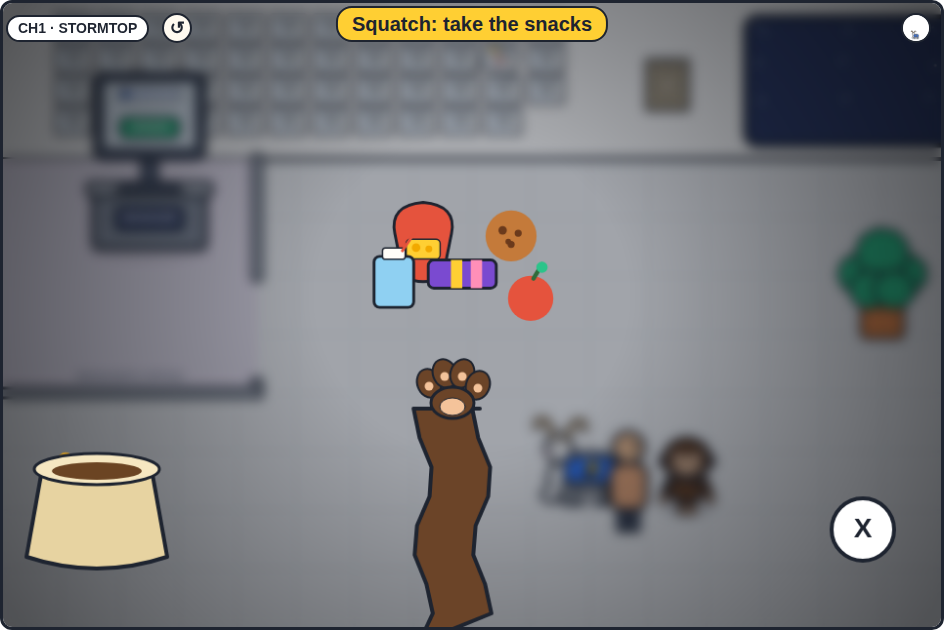
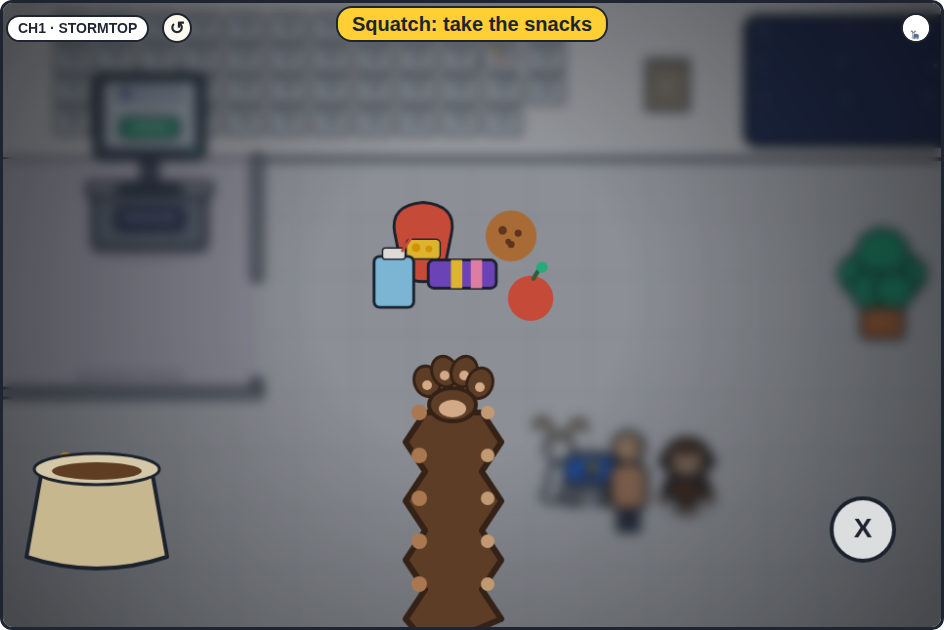
Crouch Squatch under the vent and fur the cut-in arm.
He walks to the grille and stays there, eyes wide, while the pink sheet flies past his head. Every close-up uses that same furry arm. The watched beats are listed as proposals only.

diff --git a/src/game/14-ch1-day2.js b/src/game/14-ch1-day2.js
@@ -296,9 +296,9 @@
           ((n.ch1Roll = 0), (n.ch1ShowBots = !0));
         }),
         cV((dt) => ((n.ch1Roll = Math.min(1, (n.ch1Roll || 0) + dt / 1.2)), n.ch1Roll >= 1)),
-        ch1Step("sq", CH1_VENT.x - 36, CH1_VENT.y, 220),
+        ch1Step("sq", 790, 490, 220),
         N(() => {
-          ((n.sqPose = "ball"), (n.sq.x = 640), (n.sq.y = 500));
+          ((n.sqPose = "stand"), (n.ch1Crouch = !0), (n.ch1Wide = !0));
         }),
         N(() => {
           ((n.ch1SuckT = n.T), D.slurp());
@@ -308,6 +308,8 @@
           ((n.ch1PinkSucked = 1),
             ch1SetPaper("vent"),
             (n.ch1SuckT = 0),
+            (n.ch1Crouch = !1),
+            (n.ch1Wide = !1),
             (n.ch1ShowBots = !1),
             (n.sqPose = "stand"),
             (n.ch1Step = "out"),
@@ -788,28 +790,6 @@
     function drawSlip(x, y, color, w, h) {
       (m(x, y, w || 28, h || 36, 3), r(color, 2));
     }
-    function drawPawArm(paw) {
-      let p = paw || { x: 480, y: 580 },
-        x = p.x,
-        y = p.y;
-      e.save();
-      e.beginPath();
-      e.moveTo(x - 34, 656);
-      for (let i = 1; i <= 8; i++) {
-        let t = i / 8;
-        e.lineTo(x - 30 + Math.sin(i * 1.4) * 10, 656 - (656 - (y + 16)) * t);
-      }
-      e.lineTo(x + 28, y + 16);
-      for (let i = 8; i >= 1; i--) {
-        let t = i / 8;
-        e.lineTo(x + 30 + Math.sin(i * 1.4) * 10, 656 - (656 - (y + 16)) * t);
-      }
-      (e.closePath(), r("#6b4428", 4));
-      [[-24, -10], [-8, -20], [10, -20], [26, -8]].forEach(([dx, dy]) => {
-        (e.beginPath(), e.ellipse(x + dx, y + dy, 12, 15, dx < 0 ? -0.35 : 0.35, 0, 7), r("#6b4428", 2), F(x + dx, y + dy + 3, 4.5, "#f4c39a"));
-      });
-      (e.beginPath(), e.ellipse(x, y + 10, 22, 16, 0, 0, 7), r("#6b4428", 3), e.beginPath(), e.ellipse(x, y + 14, 13, 9, 0, 0, 7), r("#f4c39a", 1), e.restore());
-    }
     function drawZoomX() {
       (L(880, 540, 32), r("#ffffff", 4), g("X", 880, 540, 28, "#1e2430", "center", 900));
     }
@@ -949,14 +929,14 @@
       n.ch1Paper === "box" && n.room === "closet" && drawSlip(332, 470, "#ff8fb8", 16, 20);
       if (n.ch1SuckT) {
         let t = Math.min(1, (n.T - n.ch1SuckT) / 1.15),
-          x0 = n.sq.x + 10,
-          y0 = n.sq.y - 36,
-          x = x0 + (864 - x0) * t,
-          y = y0 + (186 - y0) * t + Math.sin(t * 20) * 10 * (1 - t);
+          x0 = n.sq.x + 18,
+          y0 = n.sq.y - 62,
+          x = x0 + (840 - x0) * t,
+          y = y0 + (168 - y0) * t + Math.sin(t * 20) * 8 * (1 - t);
         for (let i = 1; i <= 5; i++) {
           let u = Math.max(0, t - i * 0.07),
-            lx = x0 + (868 - x0) * u,
-            ly = y0 + (148 - y0) * u;
+            lx = x0 + (840 - x0) * u,
+            ly = y0 + (168 - y0) * u;
           C([lx - 18, ly + 8, lx + 6, ly - 10], "rgba(255,143,184," + (0.85 - i * 0.12) + ")", 3);
         }
         (e.save(), e.translate(x, y), e.rotate(Math.sin(t * 16) * 0.5), drawSlip(-24, -30, "#ff8fb8", 48, 60), e.restore());
@@ -1008,6 +988,8 @@
         (n.ch1Tape = !1),
         (n.ch1Crayon = !1),
         (n.ch1InCrate = !1),
+        (n.ch1Crouch = !1),
+        (n.ch1Wide = !1),
         (n.ch1Chip = ""));
       if (b === 22) {
         ((n.room = "closet"), (n.scene = "QB"), (n.sq.x = 360), (n.sq.y = 520), (n.moPose = "hidden"), (n.ch1Hold = "gift"));
@@ -1033,7 +1015,20 @@
         n.ch1Paw = 1;
         n.ch1Chip = "Squatch: check the order";
       } else if (b === 142) {
-        ((n.room = "hangar"), (n.ch1D = !0), (n.ch1Night = !0), (n.scene = "Q4"), (n.sqPose = "ball"), (n.sq.x = 640), (n.sq.y = 500), (n.moPose = "hidden"), (n.ch1SuckT = n.T - 0.7), (n.ch1Chip = "Squatch: hide by the vent"), ch1SetPaper(""));
+        ((n.room = "hangar"),
+          (n.ch1D = !0),
+          (n.ch1Night = !0),
+          (n.scene = "Q4"),
+          (n.sqPose = "stand"),
+          (n.sq.f = 1),
+          (n.sq.x = 790),
+          (n.sq.y = 490),
+          (n.ch1Crouch = !0),
+          (n.ch1Wide = !0),
+          (n.moPose = "hidden"),
+          (n.ch1SuckT = n.T - 0.4),
+          (n.ch1Chip = "Squatch: hide by the vent"),
+          ch1SetPaper(""));
       } else if (b === 23) {
         ((n.room = "closet"), (n.scene = "QB"), (n.wardrobe = "closed"), (n.ch1Cal = 2), (n.sq.x = 360), (n.sq.y = 520), (n.moPose = "hidden"), (n.ch1Step = "cal"), (n.ch1Chip = "Squatch: circle delivery day"));
       } else if (b === 29) {

diff --git a/src/game/60-frame-draw.js b/src/game/60-frame-draw.js
@@ -250,7 +250,12 @@
       ) {
         ((e.strokeStyle = y), (e.lineWidth = 1.1));
         for (let Qe of [-1, 1]) (e.beginPath(), e.arc(Qe * q.head * 0.27, P + q.head * 0.1, 1.6, 0.1, Math.PI - 0.1), e.stroke());
-      } else (F(-q.head * 0.27, P + q.head * 0.12, 1.5, y), F(q.head * 0.27, P + q.head * 0.12, 1.5, y));
+      } else if (s.eyes === "wide")
+        (F(-q.head * 0.28, P + q.head * 0.1, 3.4, "#ffffff"),
+          F(q.head * 0.28, P + q.head * 0.1, 3.4, "#ffffff"),
+          F(-q.head * 0.28, P + q.head * 0.14, 1.7, y),
+          F(q.head * 0.28, P + q.head * 0.14, 1.7, y));
+      else (F(-q.head * 0.27, P + q.head * 0.12, 1.5, y), F(q.head * 0.27, P + q.head * 0.12, 1.5, y));
       (s.singing
         ? (e.beginPath(), e.ellipse(0, P + q.head * 0.45, 1.8, 2.2 + Math.sin(n.T * 12) * 0.5, 0, 0, 7), (e.fillStyle = y), e.fill())
         : (e.beginPath(), e.arc(0, P + q.head * 0.38, 2.2, 0.2, Math.PI - 0.2), (e.strokeStyle = y), (e.lineWidth = 1.1), e.stroke()),

diff --git a/src/game/12-ch1-redesign.js b/src/game/12-ch1-redesign.js
@@ -1462,13 +1462,17 @@
         n.sqPose === "ball" && drawL2Ball(n.sq.x, n.sq.y - 16),
         n.sqPose !== "hidden" &&
           n.sqPose !== "ball" &&
+          (e.save(),
+          n.ch1Crouch && (e.translate(n.sq.x, n.sq.y), e.scale(1, 0.72), e.translate(-n.sq.x, -n.sq.y)),
           Re(n.sq.x, n.sq.y, sqDrawScale(), {
             f: n.sq.f || 1,
             walk: n.sq.moving ? n.sq.walk : 0,
             jacket: !!n.costumeOn,
             goatBeard: !!n.costumeOn,
             horns: !!n.costumeOn,
-          }));
+            eyes: n.ch1Wide ? "wide" : void 0,
+          }),
+          e.restore()));
     }
     function drawCh1Duct() {
       ((e.fillStyle = "#f3efe6"), e.fillRect(0, 0, c, b), m(28, 18, 904, 604, 18), r("#f7f4ee", 7));

diff --git a/docs/audit/DAY2-AUDIT.md b/docs/audit/DAY2-AUDIT.md
@@ -1,0 +1,19 @@
+# Day 2 moments that play themselves
+
+These are the beats from 22–61 where the kid mostly watches, or only taps the next line. They are proposals for Brian. None of them are built.
+
+Each idea is one small thing a kid can do with a finger, with no new words. The story stays the same.
+
+| Beat | What plays now | One wordless thing a kid could do |
+| --- | --- | --- |
+| 29. Walk to the bay | They walk the hall, the hallway, and into the bay. The first hallway walk is already a cutscene, so nothing there can be found early. | On the way back, when the hallway is allowed, drag a finger along the photo wall and the frames tilt as he passes. |
+| 32–35. The form, Delicious, the grumble, the spit | Squatch watches from the plant. Isfred leaves. Mops bites, grumbles, and spits both copies into the bin. | Tap the plant. Squatch leans out a little, then tucks back in. The bite and the spit still happen on their own. |
+| 41. Lights out | They walk to the bed. The light goes out. No story, no flashback. | Tap the dark window. A star blinks. He is already in bed. |
+| 44. The robots tease Mops | Three robots, his beard, then they go home. The kid taps the lines. | Tap a robot. It rocks back, then rolls in again. No new line. |
+| 46. The almost-slip | Two whispers at home. He covers the mailed order. | Tap Squatch. His paws come up over his mouth, then drop. |
+| 48. The workstation | He watches through the grille. Mops, the letter, the stamp. | Drag the grille slats. They slide a little and he sees the desk more clearly. The letter does not change. |
+| 54. Robots open a crate | He is already in the crate. A crate by the ship opens. Mops warns him. | Hold a finger down to stay tucked. Letting go makes the crate lid creak. He does not get caught. |
+| 60. The tapes | The office, then the recording of the goat. | Tap the screen. The picture freezes on the goat, then plays on. |
+| 61. The call | The base tells the ship to stop. | Tap the ship in the window. Its lights blink once, then it holds still. |
+
+The vent suck in beat 42 stays a cutscene. The walkthrough already asks the kid to watch it, after he has checked the order and posted the yellow copy. He walks to the vent. He is not moved there.
